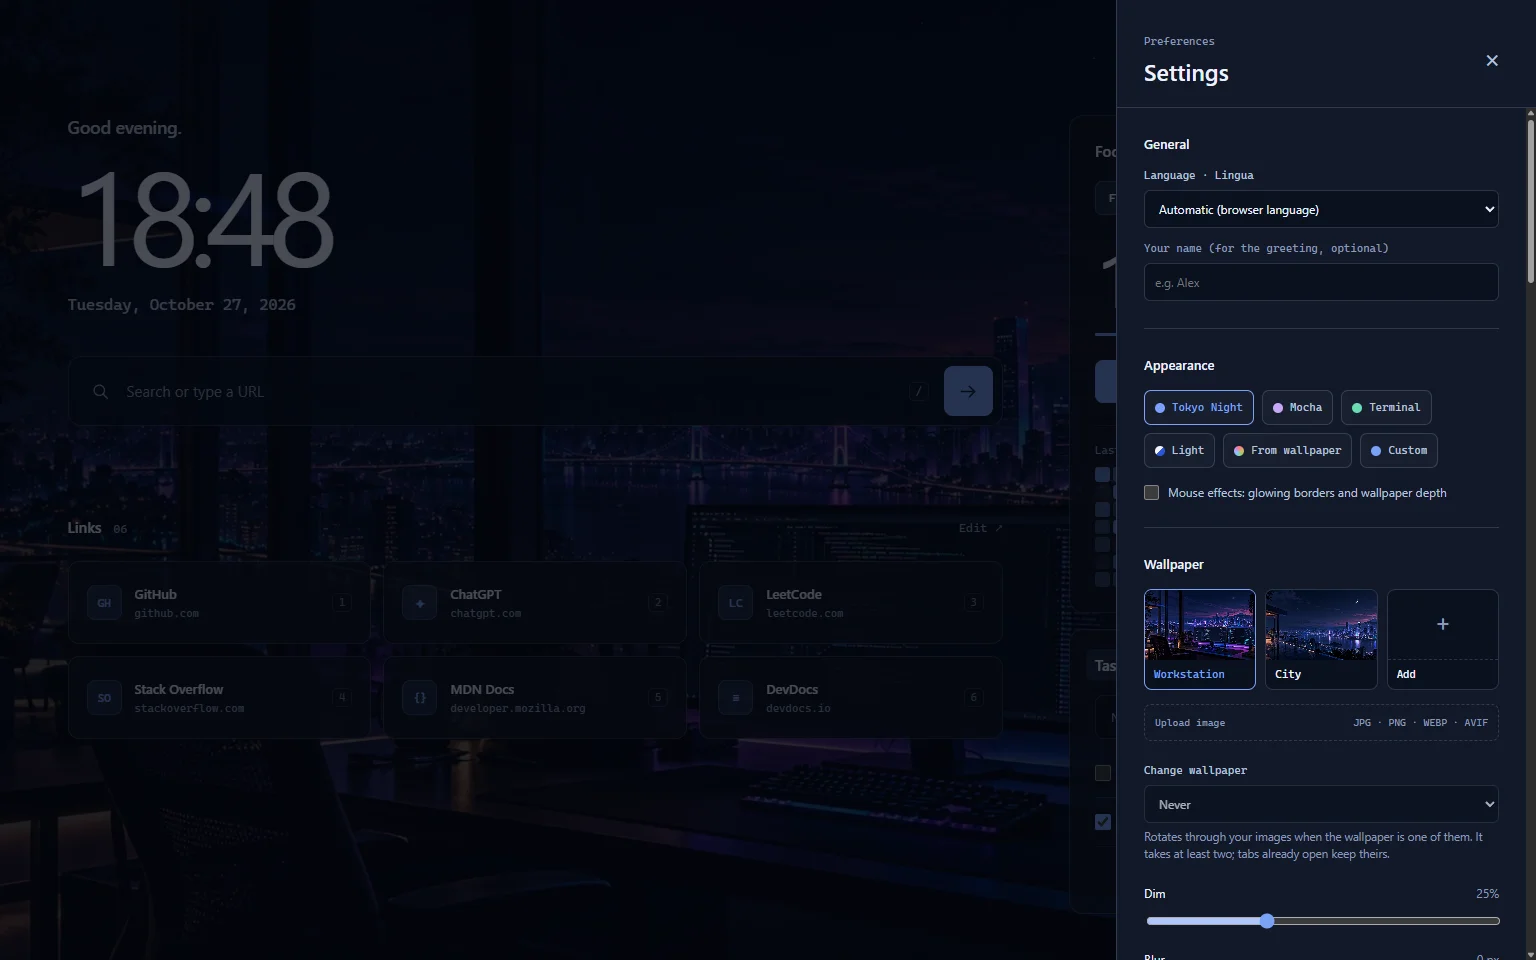
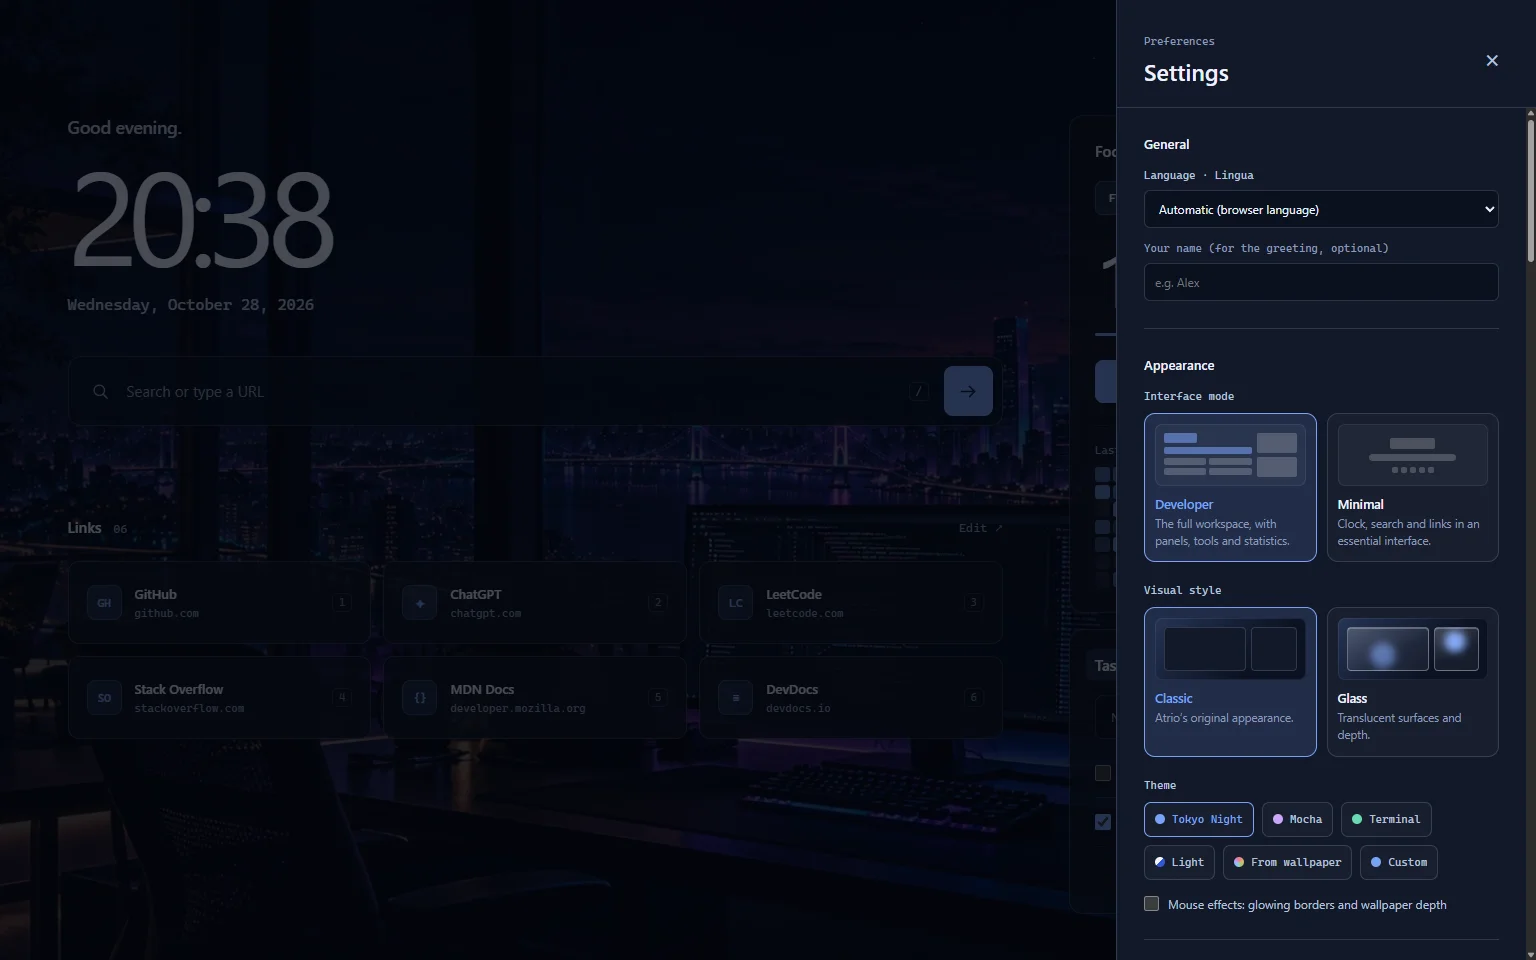
refactor(settings): keep the Add tile as the only wallpaper upload
The "Upload image" button under the wallpaper tiles opened the same file
picker as the "Add" tile next to the user's images. Keep the tile, which
already hides at the eight-image limit, and show the accepted formats
under the tiles instead, linked to it with aria-describedby (hidden with
it at the limit).

The e2e check now covers the tile: it opens the picker, and no other
upload control is left in the settings. The README screenshot of the
settings is taken again, from the current page.

diff --git a/tests/e2e/run.js b/tests/e2e/run.js
@@ -1167,6 +1167,20 @@ try {
     await upload('#c0392b');
     await upload('#27ae60');
     const three = await read();
+    // "Add" is the one way to upload: it opens the file picker, and the formats sit under the tiles.
+    const add = await a.eval(`(() => {
+      const input = document.getElementById('wallpaper-upload');
+      let opened = 0;
+      input.click = () => opened++;
+      ${settings(`document.querySelector('#wallpaper-picks [data-add]').click()`)};
+      delete input.click;
+      const tile = document.querySelector('#wallpaper-picks [data-add]');
+      return {
+        opened,
+        formats: document.getElementById(tile.getAttribute('aria-describedby')).textContent,
+        otherButtons: document.querySelectorAll('#settings [id*="upload"]:not(#wallpaper-upload, #upload-formats)').length,
+      };
+    })()`);
     await setRotation('tab');
     await a.goto();
     const firstTab = await read();
@@ -1185,6 +1199,7 @@ try {
     const at = (images, step) => images[step % images.length];
     assert.equal(three.images.length, 3);
     assert.deepEqual([three.tiles, three.rotationEnabled], [3, true]);
+    assert.deepEqual(add, { opened: 1, formats: 'JPG · PNG · WEBP · AVIF', otherButtons: 0 });
     assert.equal(secondTab.counter, firstTab.counter + 1);
     assert.equal(firstTab.shown, at(three.images, firstTab.counter));
     assert.equal(secondTab.shown, at(three.images, secondTab.counter));

diff --git a/style.css b/style.css
@@ -1502,37 +1502,22 @@ kbd {
   border-color: var(--accent);
   color: var(--accent);
 }
-/* Upload on its own line; "Remove this image" wraps under it, aligned right, when it does not fit. */
+/* Under the tiles: the formats "Add" takes on the left, "Remove this image" on the right. */
 .upload-row {
   display: flex;
   flex-wrap: wrap;
-  justify-content: flex-end;
+  justify-content: space-between;
   align-items: center;
   gap: 4px 14px;
-  margin: 14px 0 23px;
+  min-height: 20px;
+  margin: 10px 0 23px;
 }
-.upload-row .upload-button {
-  flex: 1 1 100%;
-}
-.upload-button {
-  flex: 1;
-  display: flex;
-  justify-content: space-between;
-  gap: 10px;
-  padding: 12px 10px;
-  border: 1px dashed var(--line);
-  border-radius: 7px;
-  background: transparent;
-  color: var(--text);
-  font: 11px var(--mono);
-  text-align: left;
-}
-.upload-button:hover {
-  border-color: var(--accent);
-}
-.upload-button span {
+.upload-formats {
   color: var(--text-muted);
-  font-size: 10px;
+  font: 10px var(--mono);
+}
+.upload-row .subtle-action {
+  margin-left: auto;
 }
 .range-heading {
   display: flex;

diff --git a/js/settings.js b/js/settings.js
@@ -88,8 +88,10 @@ function renderWallpaperPicks(state) {
   });
   const add = button('wallpaper-pick add-pick');
   add.dataset.add = '';
+  add.setAttribute('aria-describedby', 'upload-formats');
   add.append(el('span', 'pick-placeholder', '+'), el('span', 'pick-label', t('wallpaper.add')));
   add.hidden = state.customImages.length >= LIMITS.wallpapers;
+  $('upload-formats').hidden = add.hidden;
   $('wallpaper-picks').replaceChildren(...builtinPicks, ...own, add);
   if (dialog().open) refreshThumbs();
 }
@@ -549,7 +551,6 @@ export function initSettings() {
     });
   });
 
-  $('upload-wallpaper').addEventListener('click', chooseWallpaper);
   $('remove-wallpaper').addEventListener('click', removeWallpaper);
 
   for (const [key, { preview, format }] of Object.entries(RANGES)) {

diff --git a/js/i18n.js b/js/i18n.js
@@ -198,7 +198,6 @@ const it = {
   'show.tasks': 'Attività e note',
   'settings.mouseEffects': 'Effetti del mouse: bordi luminosi e profondità dello sfondo',
   'settings.wallpaper': 'Sfondo',
-  'settings.upload': 'Carica immagine',
   'settings.remove': 'Rimuovi questa immagine',
   'settings.dim': 'Oscuramento',
   'settings.blur': 'Sfocatura',
@@ -598,7 +597,6 @@ const en = {
   'show.tasks': 'Tasks and notes',
   'settings.mouseEffects': 'Mouse effects: glowing borders and wallpaper depth',
   'settings.wallpaper': 'Wallpaper',
-  'settings.upload': 'Upload image',
   'settings.remove': 'Remove this image',
   'settings.dim': 'Dim',
   'settings.blur': 'Blur',

diff --git a/index.html b/index.html
@@ -413,9 +413,7 @@
               data-i18n-aria-label="settings.wallpaper"
             ></div>
             <div class="upload-row">
-              <button type="button" class="upload-button" id="upload-wallpaper">
-                <span data-i18n="settings.upload"></span> <span>JPG · PNG · WEBP · AVIF</span>
-              </button>
+              <span class="upload-formats" id="upload-formats">JPG · PNG · WEBP · AVIF</span>
               <button
                 type="button"
                 class="subtle-action danger"

diff --git a/CHANGELOG.md b/CHANGELOG.md
@@ -26,6 +26,11 @@
   from the others, and backups refer to them by name, without a copy of the image. The default wallpaper and the one
   already chosen do not change.
 
+### Changed
+
+- Settings → Wallpaper has one way to add an image, the **Add** tile, with the accepted formats under the tiles; the
+  separate "Upload image" button, which did the same, is gone.
+
 ## 3.2.0 — 2026-10-28
 
 ### Added
